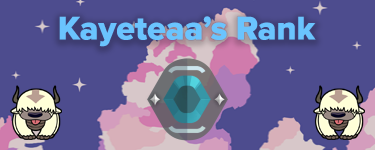
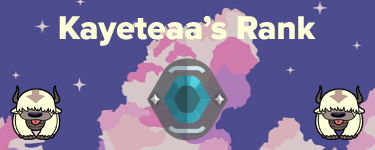
updated text color and added in some comments

Changed region(s): [[0.1467, 0.08, 0.8507, 0.3467]]

diff --git a/utils/RIGenerator.js b/utils/RIGenerator.js
@@ -6,8 +6,7 @@ exports.generateRankImage = async (rank,message) => {
     const canvas = createCanvas(375, 150);
     const context = canvas.getContext('2d');
 
-    console.log(rank)
-
+    // Loads all the necessary images
     Promise.all([
         loadImage('assets/background.png'),
         loadImage('assets/text.png'),
@@ -15,6 +14,7 @@ exports.generateRankImage = async (rank,message) => {
         loadImage('assets/small_appa.png'),
         loadImage('assets/small_appa.png')
     ]).then(([background, title, rank, icon1, icon2]) => {
+        // Draws all the images to the canvas with the specified positioning and sizing
         context.drawImage(background, 0, 0, canvas.width, canvas.height);
         const titleX = (canvas.width - title.width) / 2;
         const titleY = 10;
@@ -36,13 +36,10 @@ exports.generateRankImage = async (rank,message) => {
         context.drawImage(rank, rankX, rankY, newRankWidth, newRankHeight);
         fs.writeFileSync('rank.png', canvas.toBuffer());
         
-        message.reply({content: "Kayeteaa's rank is currently",files: [{ attachment: 'rank.png' }]}).then().catch(console.error);
+        message.reply({files: [{ attachment: 'rank.png' }]}).then().catch(console.error);
 
     }).catch((error) => {
         console.error(error);
     });
 
 };
-
-
-

diff --git a/index.js b/index.js
@@ -20,11 +20,15 @@ client.once(Events.ClientReady, client => {
 // Listen for messages / Chat Commands
 client.on(Events.MessageCreate, async message => {
 
+  // loops through all files in the Chat_Commands folder
     fs.readdirSync('./Chat_Commands').forEach(file => {
+      // checks if the file is a .js file
       if (file.endsWith('.js')) {
         const command = require(`./Chat_Commands/${file}`);
+        // checks if the command has the run function
         if (typeof command.run === 'function') {
           let isCommand = command.isCommand;
+          // checks if the command matches then runs the code
           if (message.content === `${isCommand == true ? '!' : ''}${file.slice(0, -3)}`) {
             command.run(message);
           }
